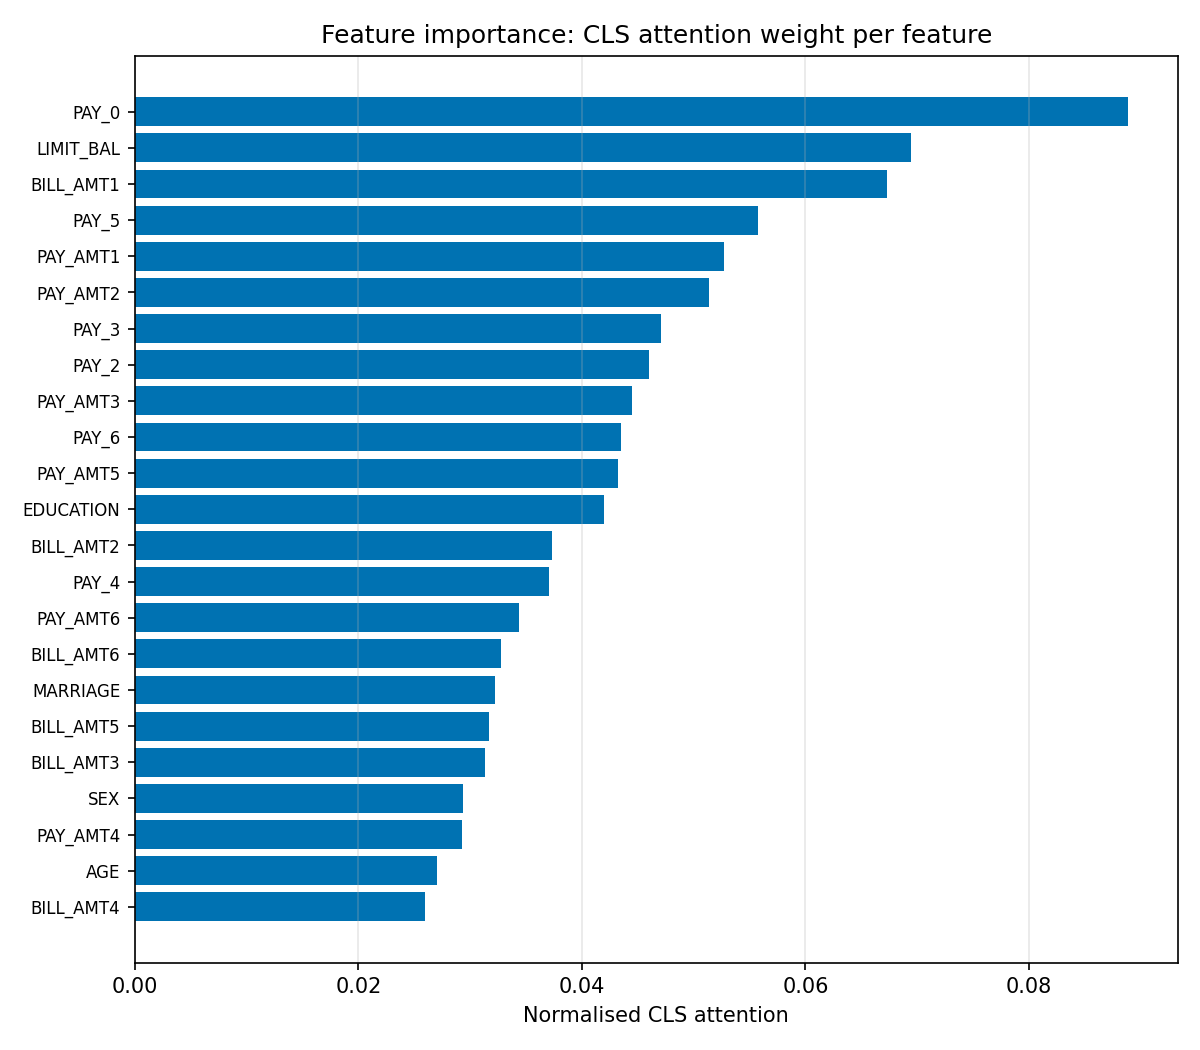
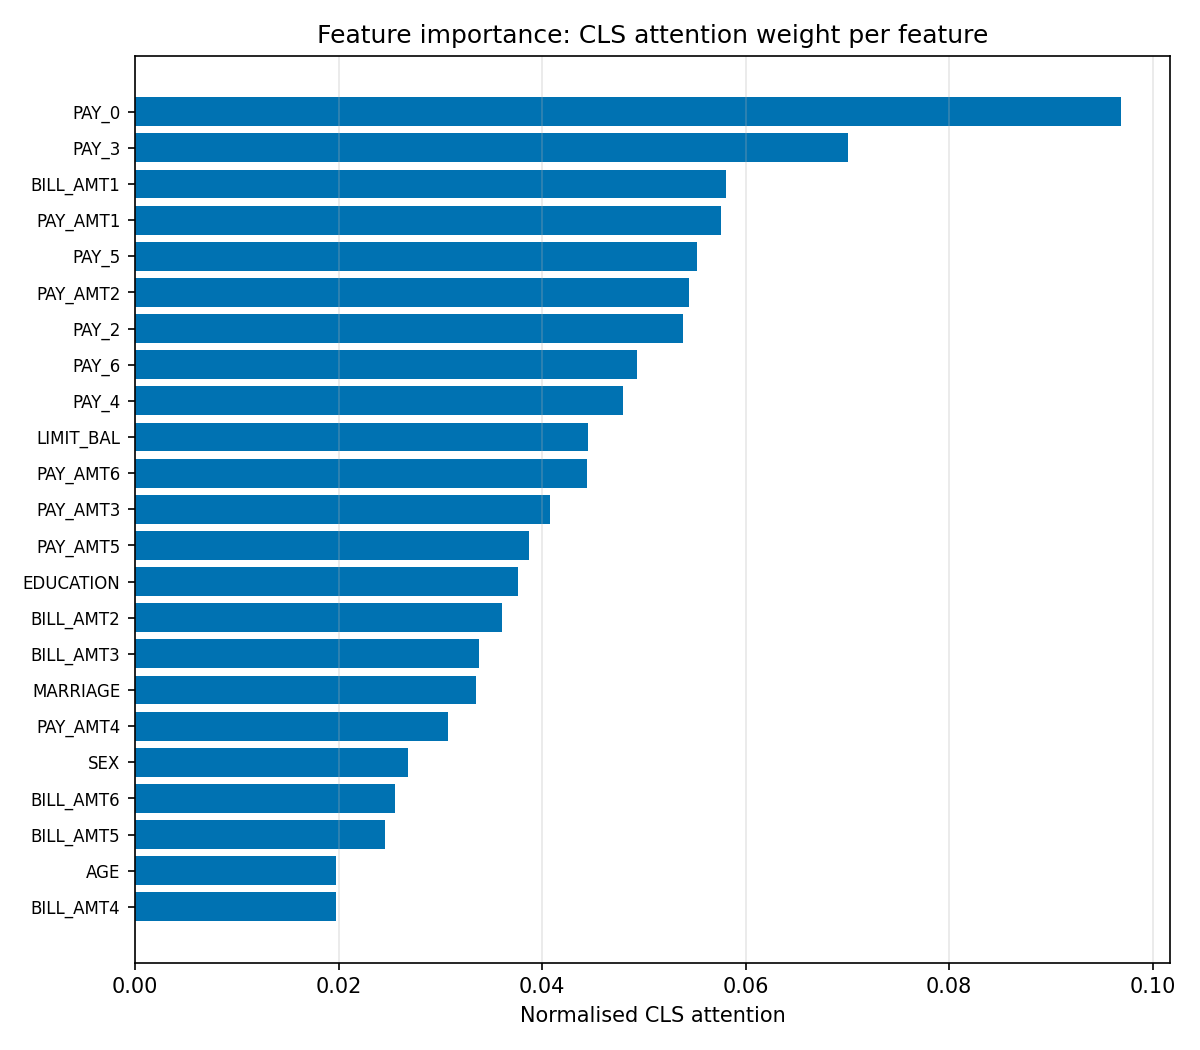
Interpretability artefacts: regenerate from committed seed_42
Follow-up to PR #14. The committed results/interpret.json pointed at a
run directory (seed_42_with_attn) that was never committed, so re-running
src/interpret.py with defaults produced numbers that did not match the
JSON. Two small fixes:

1. src/interpret.py: write run_dir to the JSON via Path.as_posix() so
   the field is stable across Linux/macOS/Windows. Previously str(Path)
   produced backslashes on Windows.

2. Regenerate results/interpret.json + figures/interpret/*.png from
   results/transformer/seed_42 (the committed weights). Rankings now
   self-consistent with the committed attention NPZ: PAY_0 still
   dominates (0.0969 CLS attention); next tier is PAY_3 / BILL_AMT1 /
   PAY_AMT1 / PAY_5. Defaulter-vs-non-defaulter PAY_0 lift on this run
   is +31 pct relative (0.119 vs 0.091), stronger than the 6 pct figure
   the PR #14 body cited against the older seed_42_with_attn run.

Verification:
- pytest tests/test_interpret.py: 15 passed.
- python src/repro.py: 7/7 PASS; bit-parity intact on every prior
  derivative artefact (RF max |dp| = 0, comparison_table byte-identical).

diff --git a/src/interpret.py b/src/interpret.py
@@ -432,7 +432,7 @@ def main(argv: Optional[List[str]] = None) -> int:
         )
 
     summary = {
-        "run_dir": str(args.run_dir),
+        "run_dir": Path(args.run_dir).as_posix(),
         "attention_scores": attn_scores,
         "attention_ranked": sorted(
             attn_scores.items(), key=lambda kv: kv[1], reverse=True,
